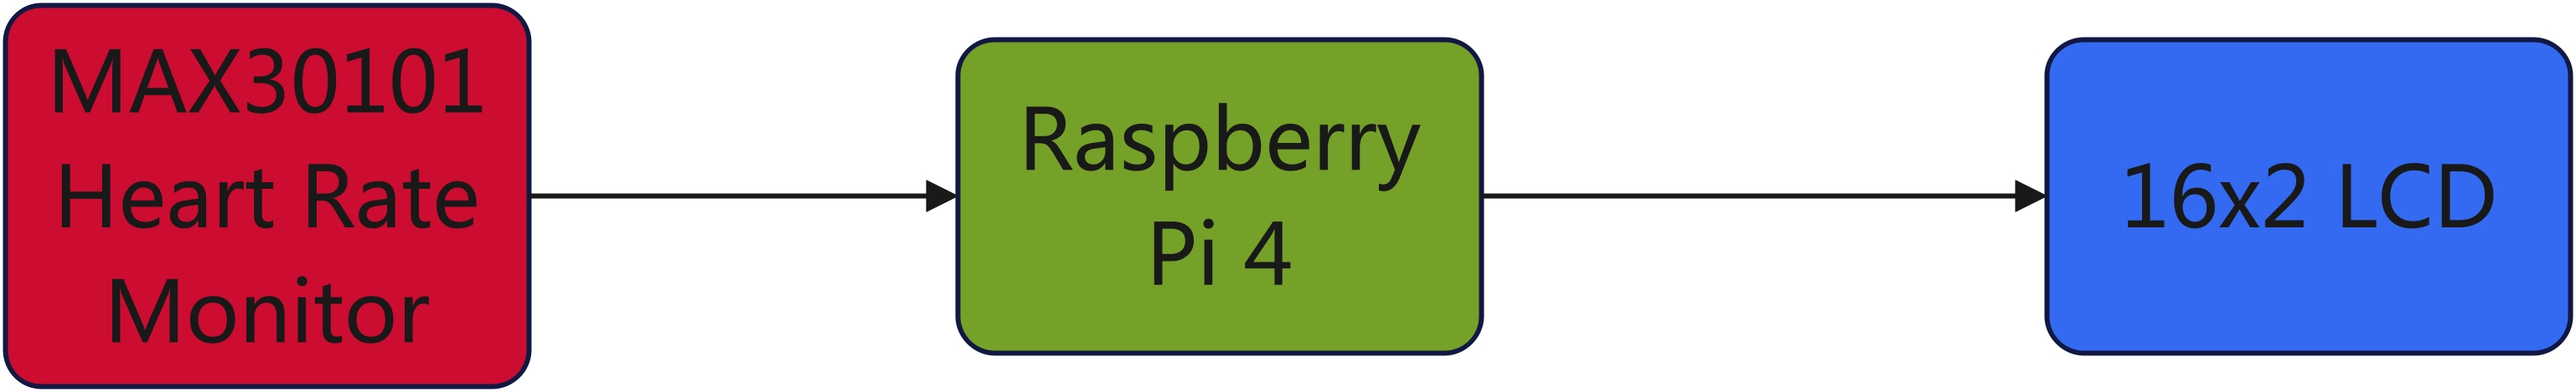
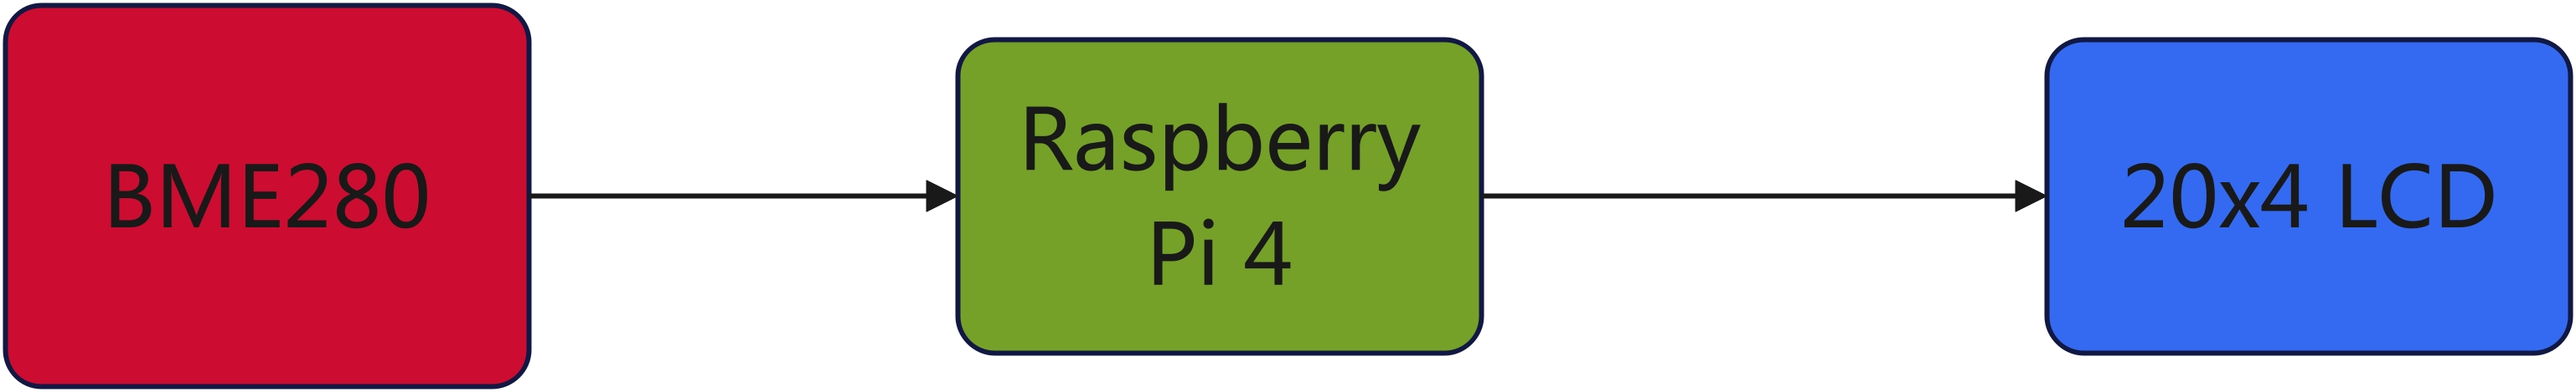
update

diff --git a/README.md b/README.md
@@ -2,9 +2,9 @@
 
 ## Overview
 ---
-In this project, a simple heart rate monitor will be implemented. A MAX30101 sensor 
-will be used to measure the heart rate. The result will be displayed on a common
-16x2 LCD.
+In this project, a simple weather monitor will be implemented. A BME280 sensor
+will be used to measure temperature, humidity and pressure. The results will be
+displayed on an 20x4 LCD.
 
 ![Block Diagram](block_diagram.jpg)
 ## Target Build System
@@ -25,9 +25,8 @@ N/A
 
 ## New Content
 ---
-Drivers for the MAX30101 sensor to measure the heart rate and for the 16x2 LCD
-to display the data. 
-A daemon to frequently get the measurement data and forward it to 16x2 LCD.
+Drivers for the BME280 and for the 20x4 LCD to display the data. 
+A daemon to frequently get the measurement data and forward it to 20x4 LCD.
 
 ## Shared Material
 ---
